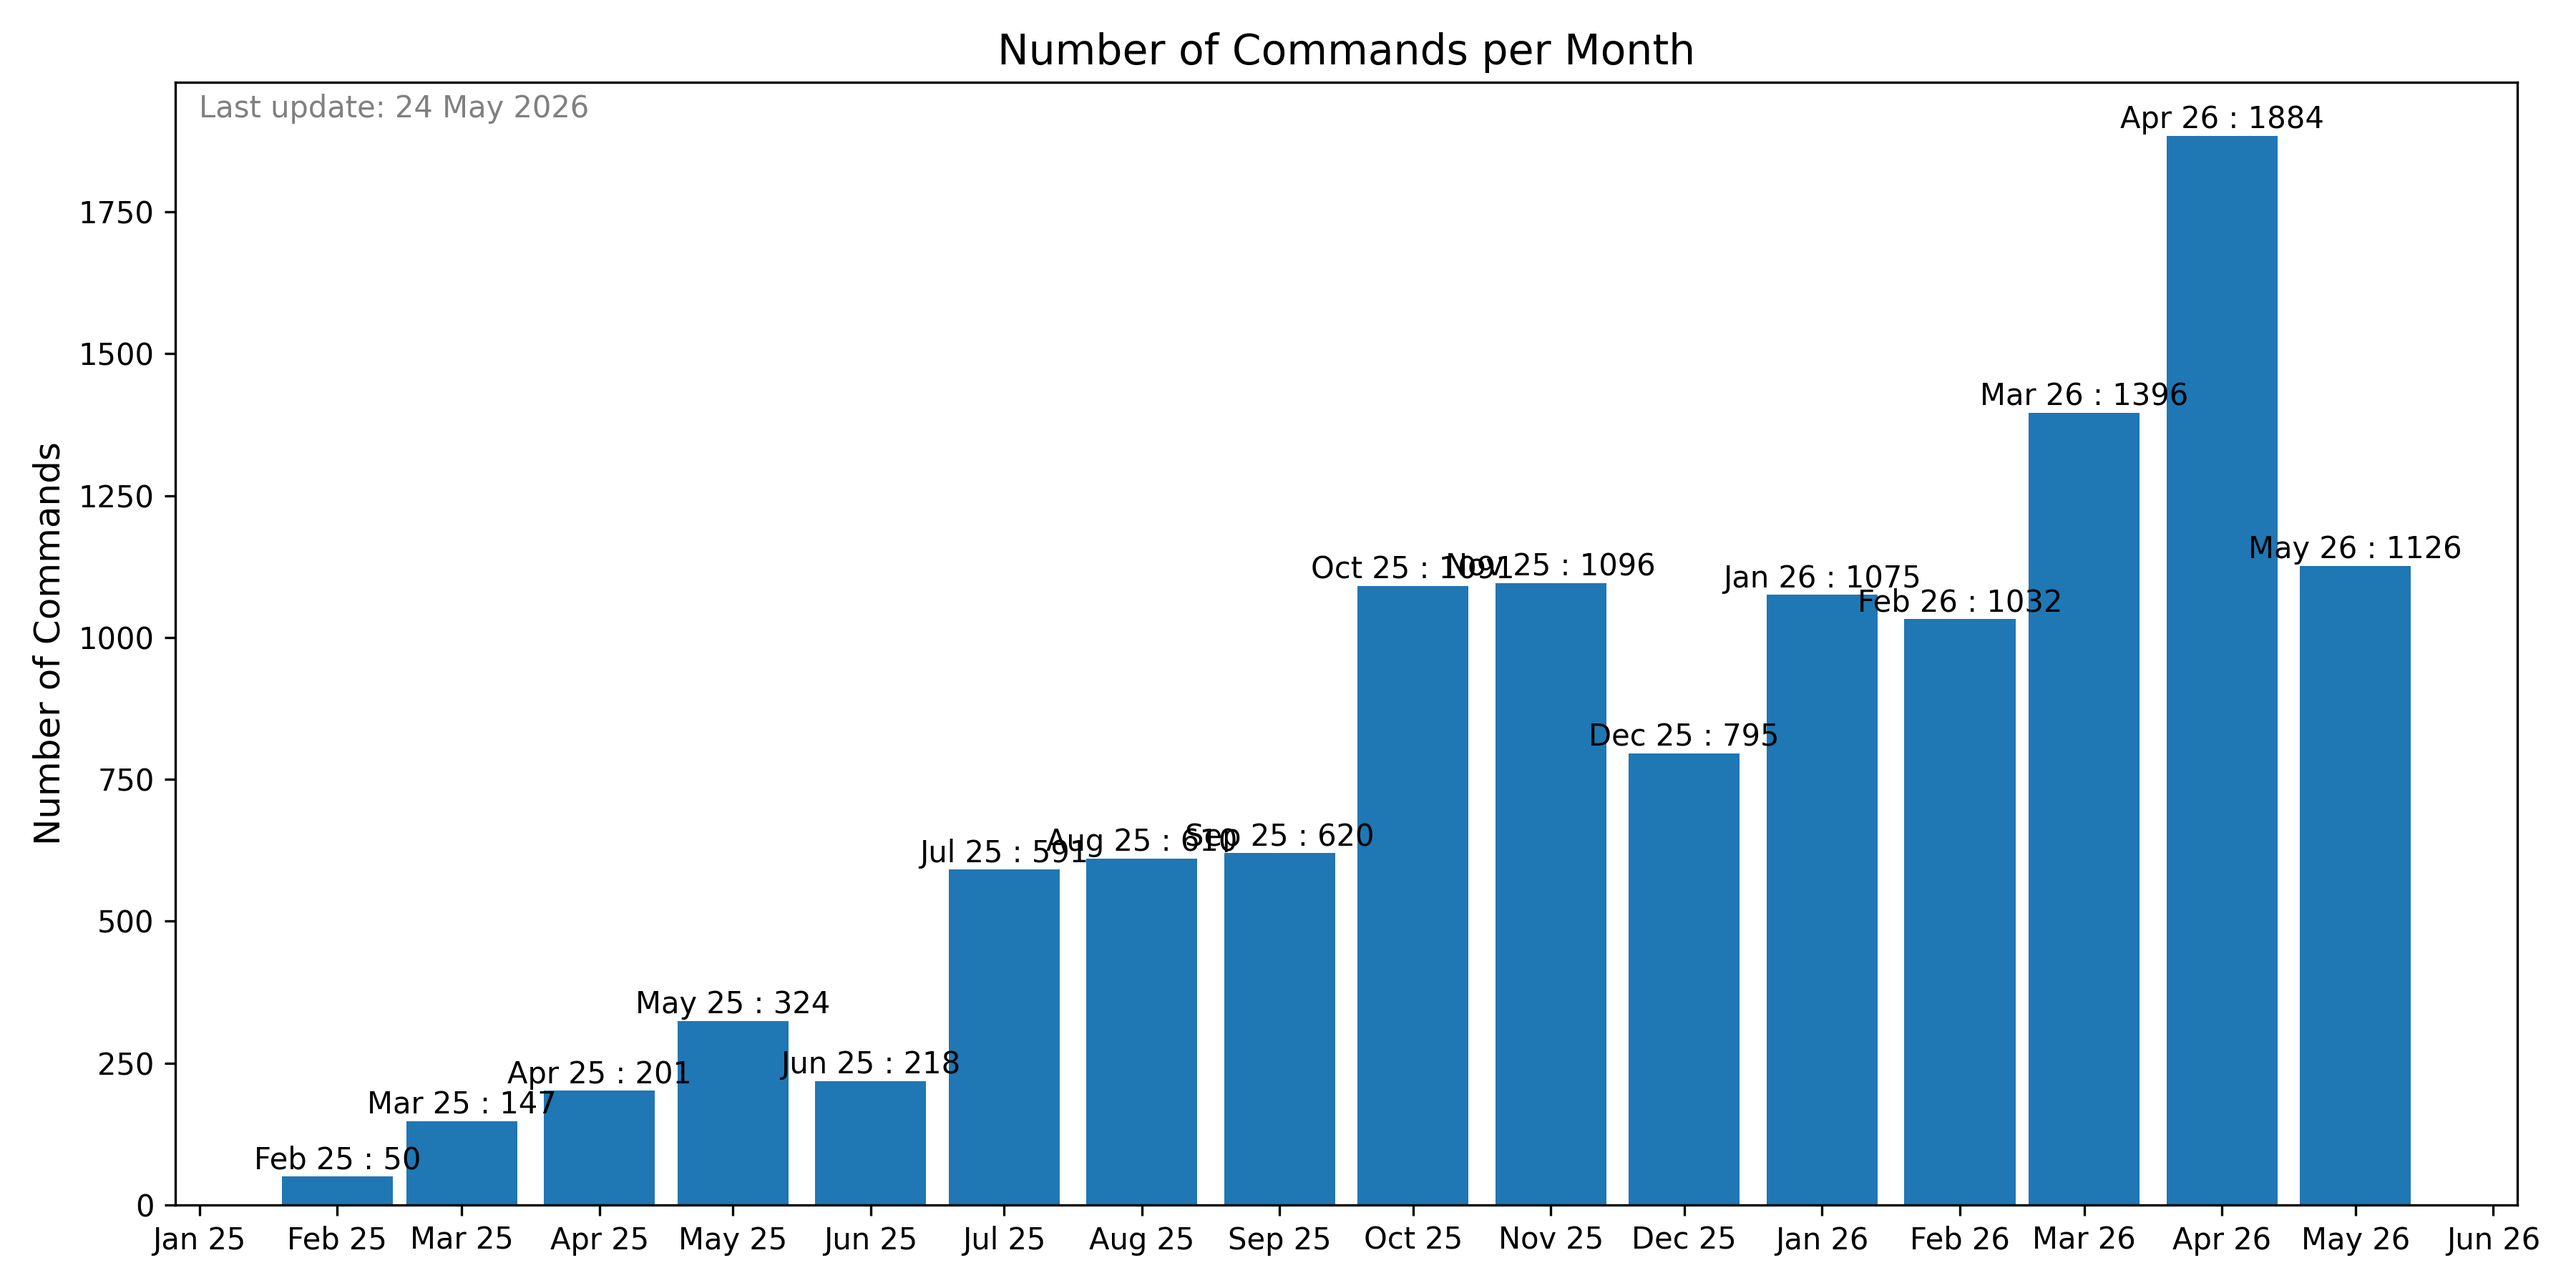
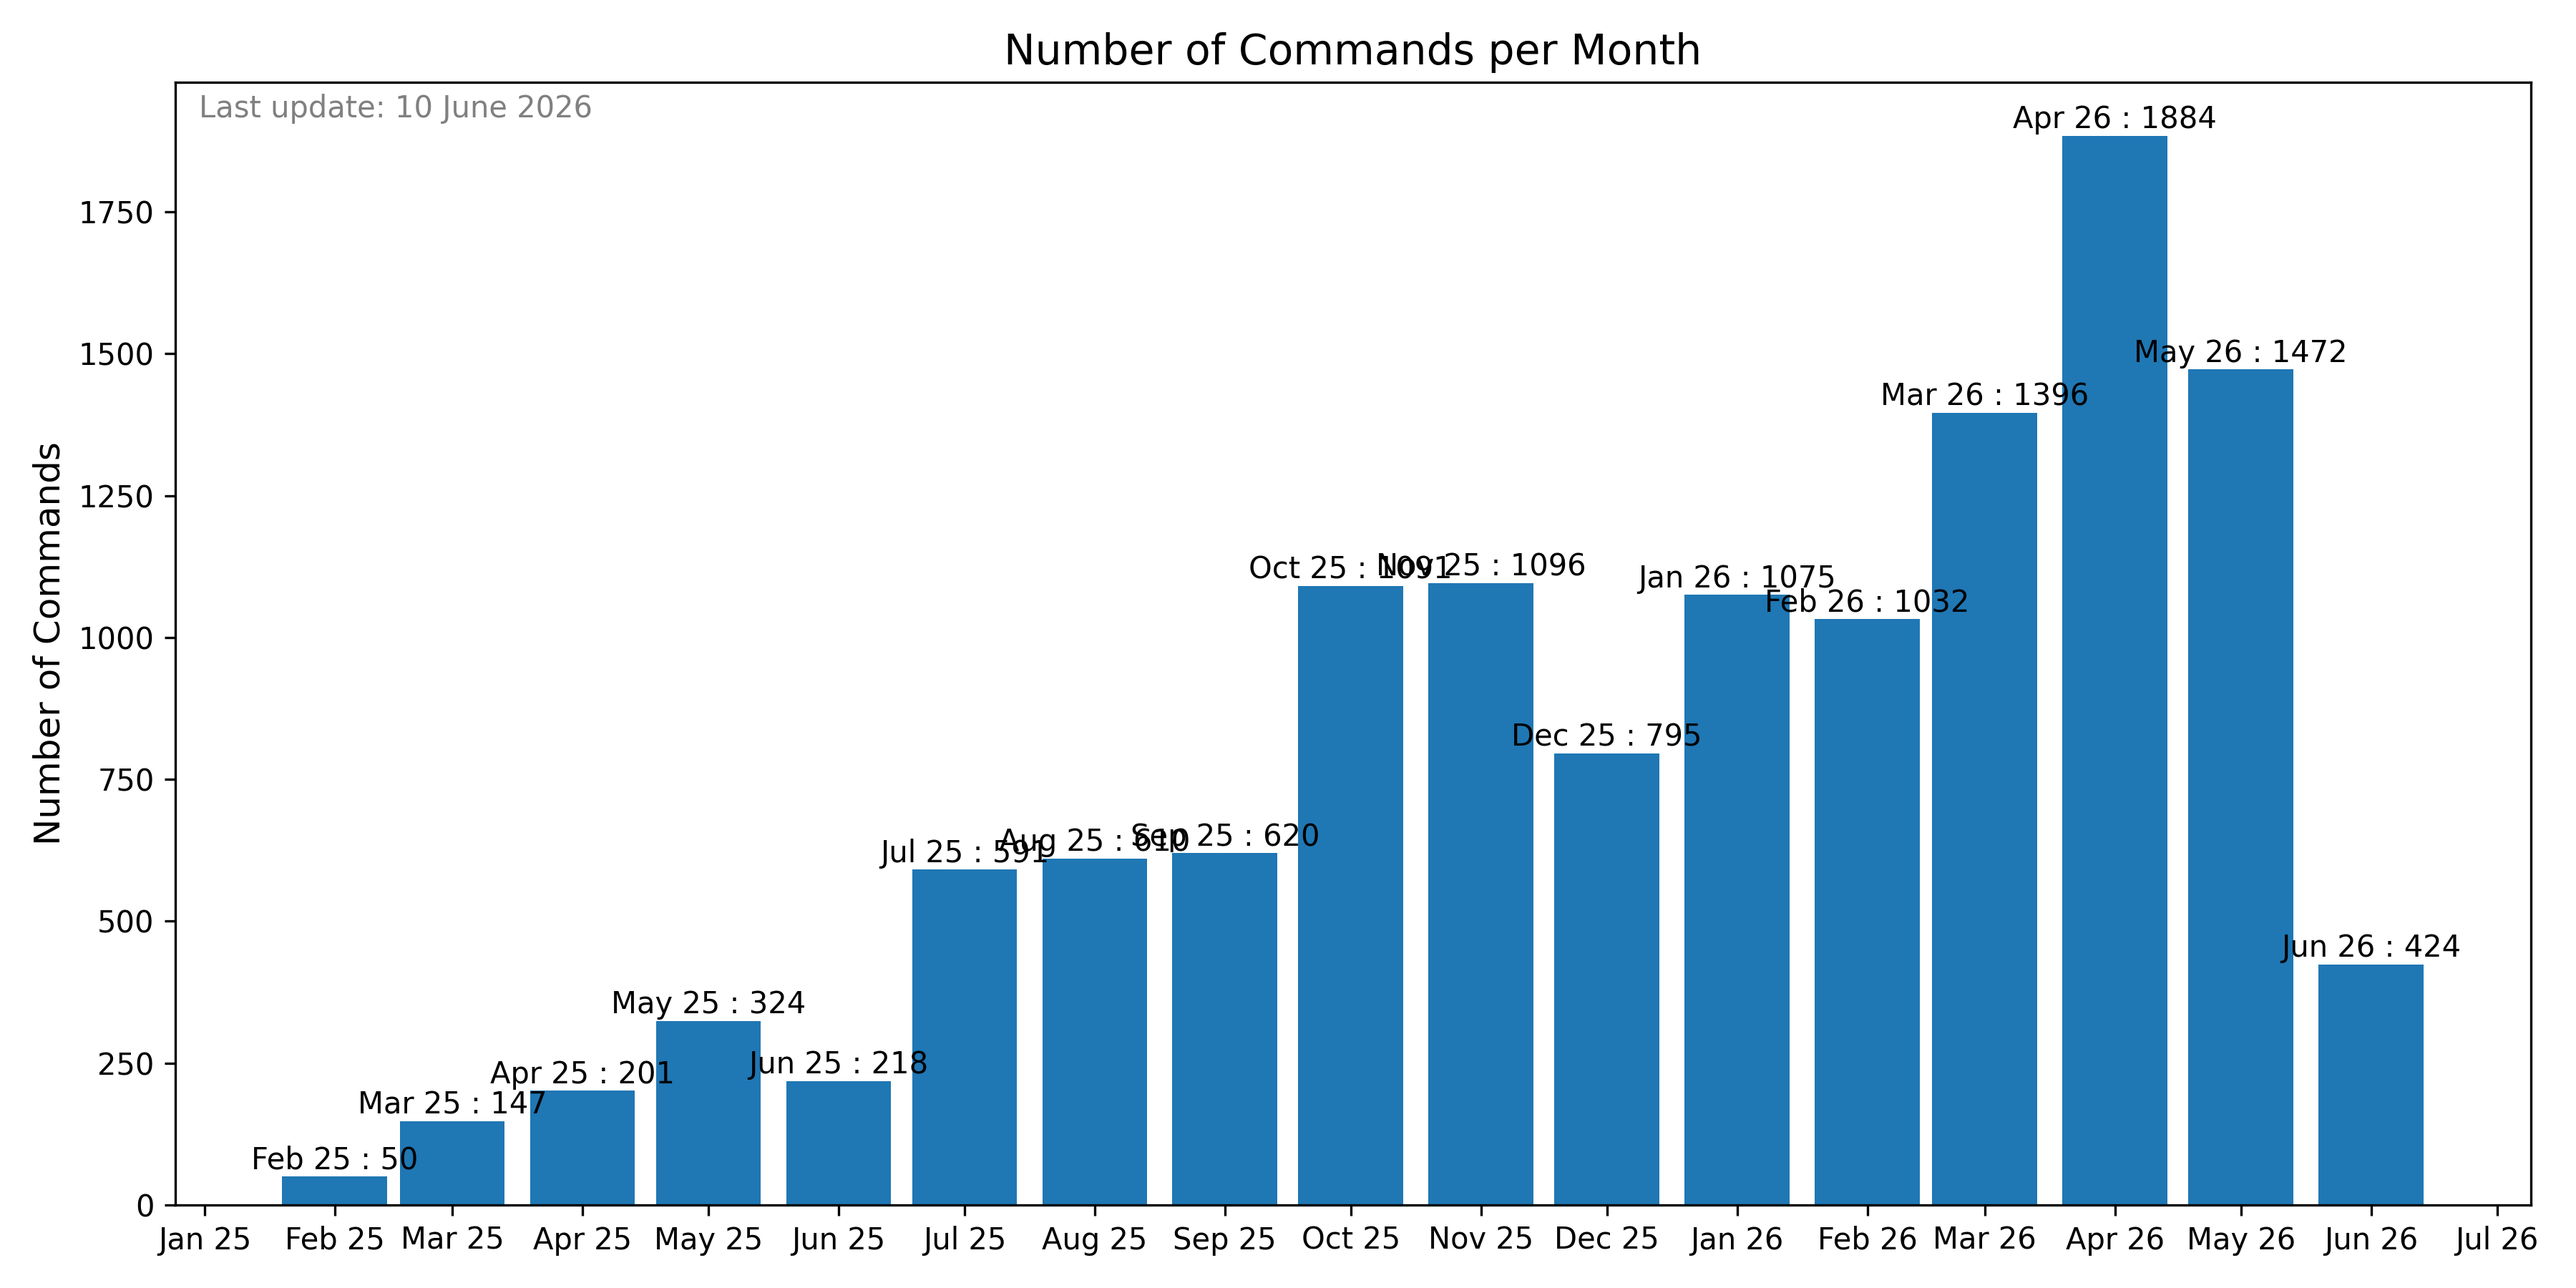
update dashboard

diff --git a/README.md b/README.md
@@ -13,7 +13,7 @@ You can also invite the bot on your server to test it :
 
 ## Usage Analytics
 <!-- UPDATE_DATE -->
-> **Last update : 24 May 2026**
+> **Last update : 10 June 2026**
 <!-- UPDATE_DATE -->
 
 ### Number of Commands per Month
